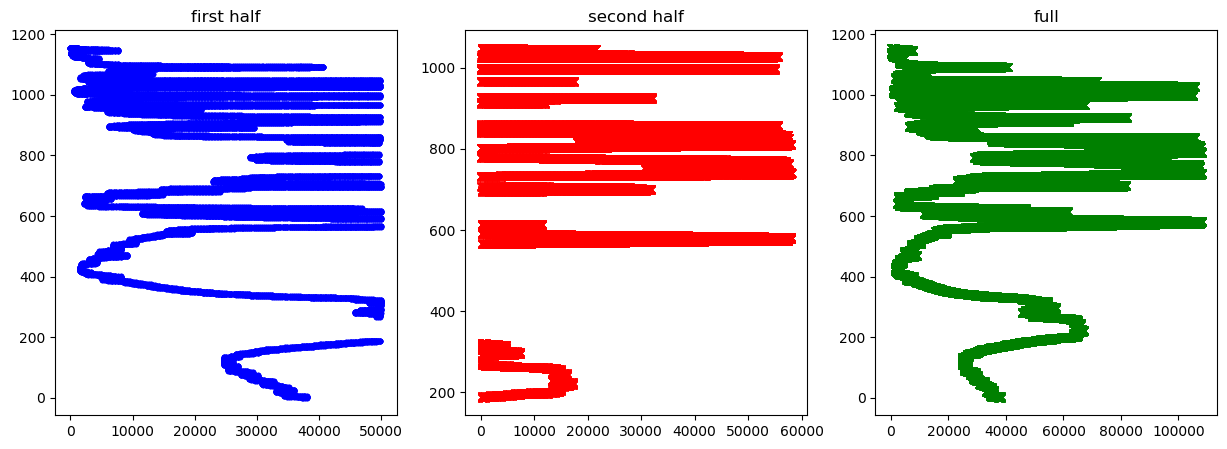
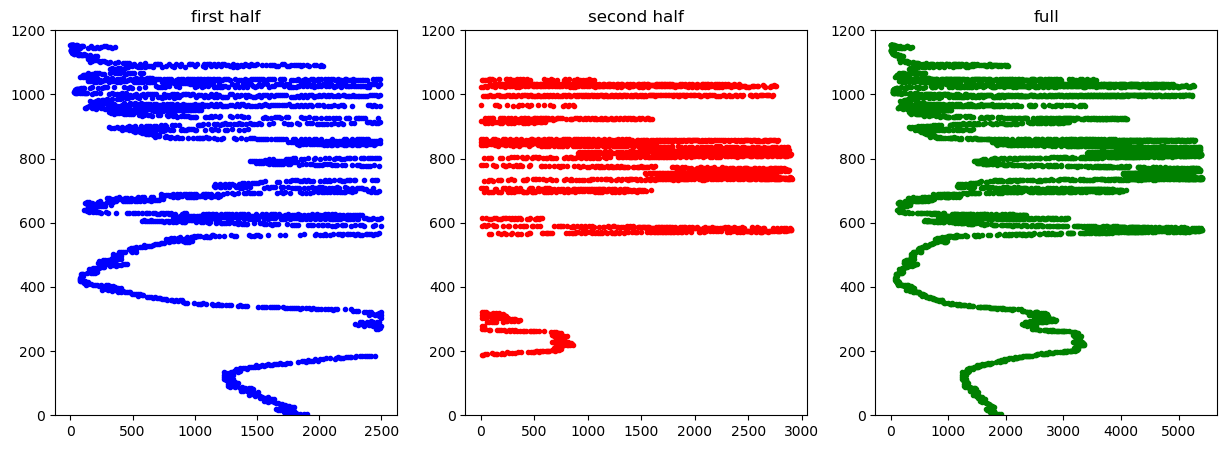
updated image reading demonstration demonstration

diff --git a/interpretation/ir_reader.py b/interpretation/ir_reader.py
@@ -41,13 +41,16 @@ a, b, c = non_white  # unpack arrays
 
 
 plt.subplot(131)
-plt.plot(b[:50000], '.', color='blue')
+plt.plot(b[:50000:20], '.', color='blue')
 plt.title('first half')
+plt.ylim(0,1200)
 plt.subplot(132)
-plt.plot(b[50000:], 'x', color='red')
+plt.plot(b[50000::20], '.', color='red')
 plt.title('second half')
+plt.ylim(0,1200)
 plt.subplot(133)
-plt.plot(b, 'x', color='green')
+plt.plot(b[::20], '.', color='green')
 plt.title('full')
+plt.ylim(0,1200)
 plt.savefig('created_images/proof_of_irregular_array_creation.PNG', bbox_inches='tight')
 plt.show()
